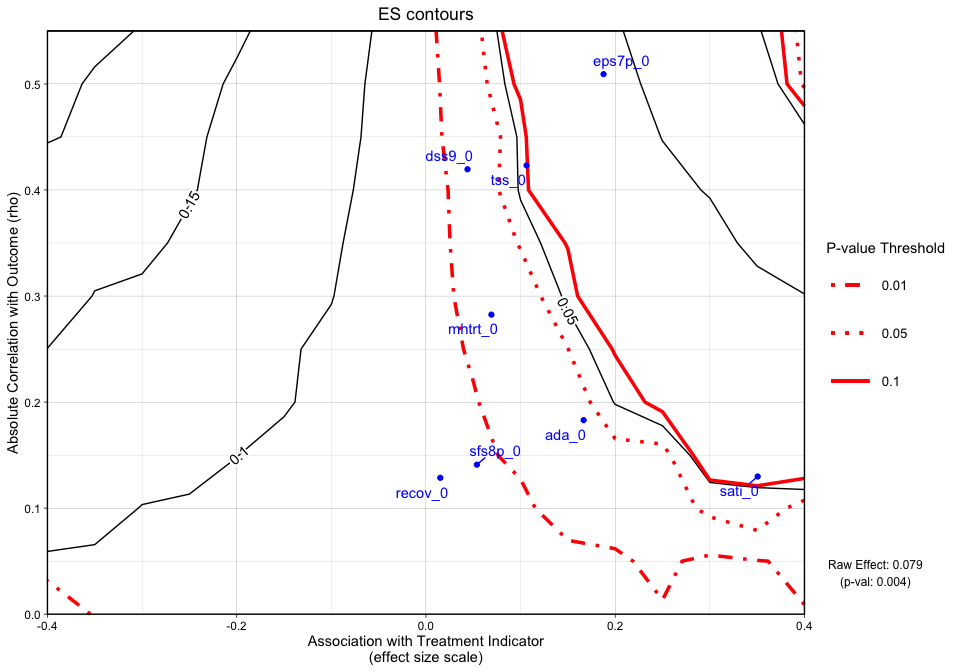
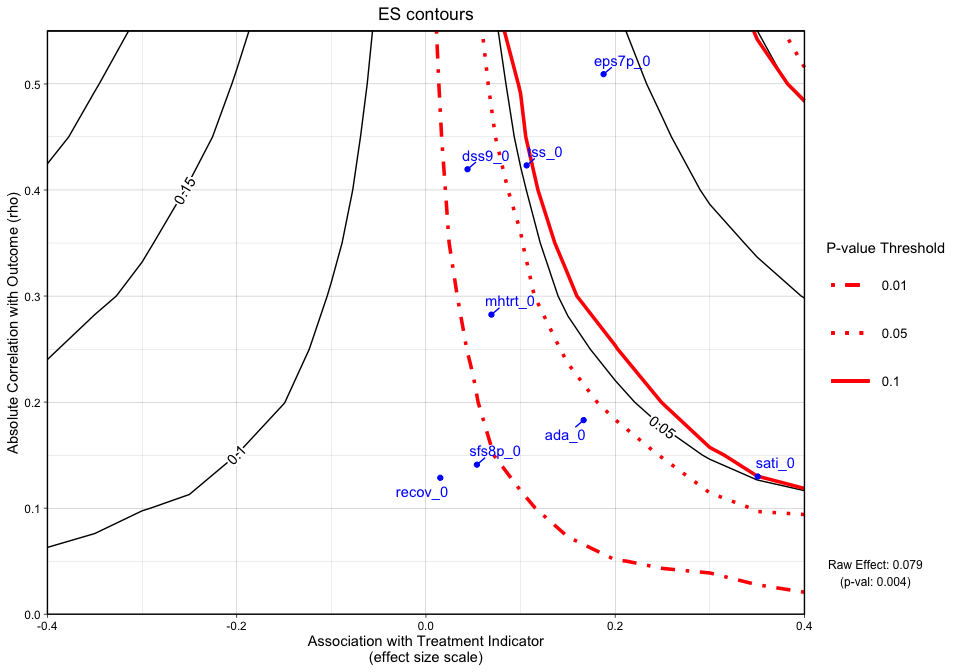
update vignette to incorporate new function, add_reps

diff --git a/README.md b/README.md
@@ -5,7 +5,7 @@
 # Introduction
 
 *Note: This is a work in progress.. This document was lasted upated
-2020-07-28 16:15:32*
+2020-07-28 16:42:17*
 
 The <ins>O</ins>mitted <ins>V</ins>ariable <ins>T</ins>ool (`OVtool`)
 package was designed to assess the sensitivity of research findings to
@@ -78,9 +78,9 @@ devtools::install_github("jpane24/OVtool")
 ```
 
     #> 
-    #>      checking for file ‘/private/var/folders/ks/ll8v5y8x6rz_cgvtgk6zln90b6fd3c/T/RtmpKAnwq6/remotes68ab3cf39abd/jpane24-OVtool-ed7197c/DESCRIPTION’ ...  ✔  checking for file ‘/private/var/folders/ks/ll8v5y8x6rz_cgvtgk6zln90b6fd3c/T/RtmpKAnwq6/remotes68ab3cf39abd/jpane24-OVtool-ed7197c/DESCRIPTION’
+    #>      checking for file ‘/private/var/folders/ks/ll8v5y8x6rz_cgvtgk6zln90b6fd3c/T/Rtmpc0bp8w/remotes69d9d89f63c/jpane24-OVtool-186c8fd/DESCRIPTION’ ...  ✓  checking for file ‘/private/var/folders/ks/ll8v5y8x6rz_cgvtgk6zln90b6fd3c/T/Rtmpc0bp8w/remotes69d9d89f63c/jpane24-OVtool-186c8fd/DESCRIPTION’ (404ms)
     #>   ─  preparing ‘OVtool’:
-    #>      checking DESCRIPTION meta-information ...  ✔  checking DESCRIPTION meta-information
+    #>      checking DESCRIPTION meta-information ...  ✓  checking DESCRIPTION meta-information
     #>   ─  checking for LF line-endings in source and make files and shell scripts
     #>   ─  checking for empty or unneeded directories
     #>   ─  building ‘OVtool_1.0.0.tar.gz’
@@ -311,7 +311,7 @@ ovtool_results_twang = ov_sim(model_results=results,
                                                   "mhtrt_0", "dss9_0"),
                               es_grid = NULL,
                               rho_grid = seq(0, 0.40, by = 0.05), 
-                              n_reps = 2,
+                              n_reps = 50,
                               progress = TRUE)
 ```
 
@@ -340,13 +340,6 @@ ovtool_results_twang = ov_sim(model_results=results,
     #> [1] "88% Done!"
     #> [1] "94% Done!"
     #> [1] "100% Done!"
-
-``` r
-# if you want to add repetitions, run the following line. You may change mo
-# ovtool_results_twang = add_reps(OVtool_results = ovtool_results_twang,
-#                                 model_results = results,
-#                                 more_reps = 3)
-```
 
 In our example, `ov_sim` produced a warning saying “You specified a rho
 grid whose maximum value is less than the maximum absolute correlation
@@ -421,33 +414,12 @@ plot.ov(ovtool_results_twang, print_graphic = "2", col = "color")
     #> [1] "NOTE: Covariates with absolute correlation with outcome greater than 0.4: eps7p_0 (Actual:
     0.509), tss_0 (Actual: 0.423), dss9_0 (Actual: 0.420)"
 
-Figure 2 is a different variation of Figure 1, but only shows the
-p-value contours with an additional dimension, covariate labels. Recall:
-if a covariate had a raw correlation that was outside the range of the
-graphic limits, the tool informed the user that the rho grid was
-expanded. The blue dots and their labels on the plot represent the
-observed covariates correlations with the outcome (y-axis) and treatment
-indicator (x-axis). For instance, `ada_0` and the outcome have
-approximately a 0.18 absolute correlation with the emotional problem
-scale at three months and an absolute association of approximately 0.17
-effect size difference between the two treatment groups (magnitude of
-its relationship with the treatment indicator). In this case, not all of
-the observed covariate relationships with the outcome and the treatment
-indicator are less than the 0.05 p-value threshold so the analyst
-potentially has results that are sensitive to an unobserved confounder.
-If the blue points all existed in contours greater than the 0.05 p-value
-contour, then unobserved confounders with similar associations would
-retain the significant effect and allow the user to conclude that the
-results are reasonably robust. 
-
-*Note: When the outcome model shows a significant effect, for all
-observed covariates, regardless of the sign of the association effect
-size difference between the two treatment groups, we force the sign of
-the magnitude to go with the direction of the significant effect. The
-blue points are meant to give the analyst an idea (using observed
-covariates as an indicator) of what would cause a change in the
-interpretation of their
-    results.*
+Figure 2 is a different variation of Figure 1, but now adds p-value
+contours. This graphic will allow the user to see what treatment effect
+on the effect size scale will switch the significance level at critical
+p-values (i.e. 0.05). This graphic will now give the user an idea of how
+sensitive the effect is.
+    
 
 ``` r
 plot.ov(ovtool_results_twang, print_graphic = "3", col = "color")
@@ -458,20 +430,52 @@ plot.ov(ovtool_results_twang, print_graphic = "3", col = "color")
     #> [1] "NOTE: Covariates with absolute correlation with outcome greater than 0.4: eps7p_0 (Actual:
     0.509), tss_0 (Actual: 0.423), dss9_0 (Actual: 0.420)"
 
-Figure 3, combines Figure 1 and Figure 2 into one graphic. Again, the
-y-axis in Figure 3 still represents rho, the absolute value of the
-correlation between the right-hand side variable and the outcome. The
-x-axis represents the association with the treatment indicator on the
-effect size scale. Plotted at the bottom of the figure margin is the PS
-weighted treatment effect size (0.079) and associated p-value of 0.004.
-The solid black contours represent the effect size (treatment effect)
-contour lines and the red lines (sometimes dashed) represent the p-value
-threshold. The key on the right side of the graphic shows where various
-p-value cutoff lines are, including p = 0.05. The blue points on the
-plot represent the observed covariate correlations with the outcome and
-effect size associations with the treatment indicator (e.g.,
-standardized mean difference on the given covariates between the two
-groups).
+Figure 3 adds a final dimension (observed covariate labels) to Figure 2.
+Similar to Figures 1 and 2, plotted at the bottom of the figure margin
+is the PS weighted treatment effect size (0.079) and associated p-value
+of 0.004. The solid black contours represent the effect size (treatment
+effect) contour lines and the red lines (sometimes dashed) represent the
+p-value threshold. The key on the right side of the graphic shows where
+various p-value cutoff lines are, including p = 0.05. The blue points on
+the plot represent the observed covariate correlations with the outcome
+(y-axis) and effect size associations with the treatment indicator
+(x-axis). For instance, `ada_0` and the outcome have approximately a
+0.18 absolute correlation with the emotional problem scale at three
+months and an absolute association of approximately 0.17 effect size
+difference between the two treatment groups (magnitude of its
+relationship with the treatment indicator). In this case, not all of the
+observed covariate relationships with the outcome and the treatment
+indicator are less than the 0.05 p-value threshold so the analyst
+potentially has results that are sensitive to an unobserved confounder.
+If the blue points all existed in contours greater than the 0.05 p-value
+contour, then unobserved confounders with similar associations would
+retain the significant effect and allow the user to conclude that the
+results are reasonably robust.
+
+*Note: When the outcome model shows a significant effect, for all
+observed covariates, regardless of the sign of the association effect
+size difference between the two treatment groups, we force the sign of
+the magnitude to go with the direction of the significant effect. The
+blue points are meant to give the analyst an idea (using observed
+covariates as an indicator) of what would cause a change in the
+interpretation of their results.*
+
+These results were produced with 50 simulations (`n_reps`) of the
+unobserved confounder. If the contours are rigid or the user wants to
+add simulations, they can call `add_reps` and specify the number
+(`more_reps`) of additional simulations. Once this is completed, a user
+can recreate the plots. Example code to add
+repetitions:
+
+``` r
+# If you want to add repetitions, run the following line. You may change mo
+# ovtool_results_twang = add_reps(OVtool_results = ovtool_results_twang,
+#                                 model_results = results,
+#                                 more_reps = 3)
+#
+# Recreate Graphic
+# plot.ov(ovtool_results_twang, print_graphic = "1", col = "bw")
+```
 
 Finally, we can interpret this graphic by running the summary command on
 the ov object:
@@ -492,11 +496,11 @@ summary.ov(object = ovtool_results_twang, model_results = results)
     #> [1] "The sign of the estimated effect is expected to remain consistent when simulated unobserved
     confounders have the same strength of association with the treatment indicator and outcome that are
     seen in the observed confounders. In the most extreme observed case, the estimated effect size is
-    reduced by 83 percent."
+    reduced by 82 percent."
     #> [1] "Statistical significance at the 0.05 level is expected to be robust to unobserved
     confounders with strengths of associations with the treatment indicator and outcome that are seen
     in 5 of the 8 observed confounders. In the most extreme observed case, the p-value would be
-    expected to increase from 0.004 to 0.641. Significance at the 0.05 level would not be expected to
+    expected to increase from 0.004 to 0.619. Significance at the 0.05 level would not be expected to
     be preserved for unobserved confounders that have the same strength of association with the
     treatment indicator and outcome as eps7p_0, sati_0, tss_0."
 
